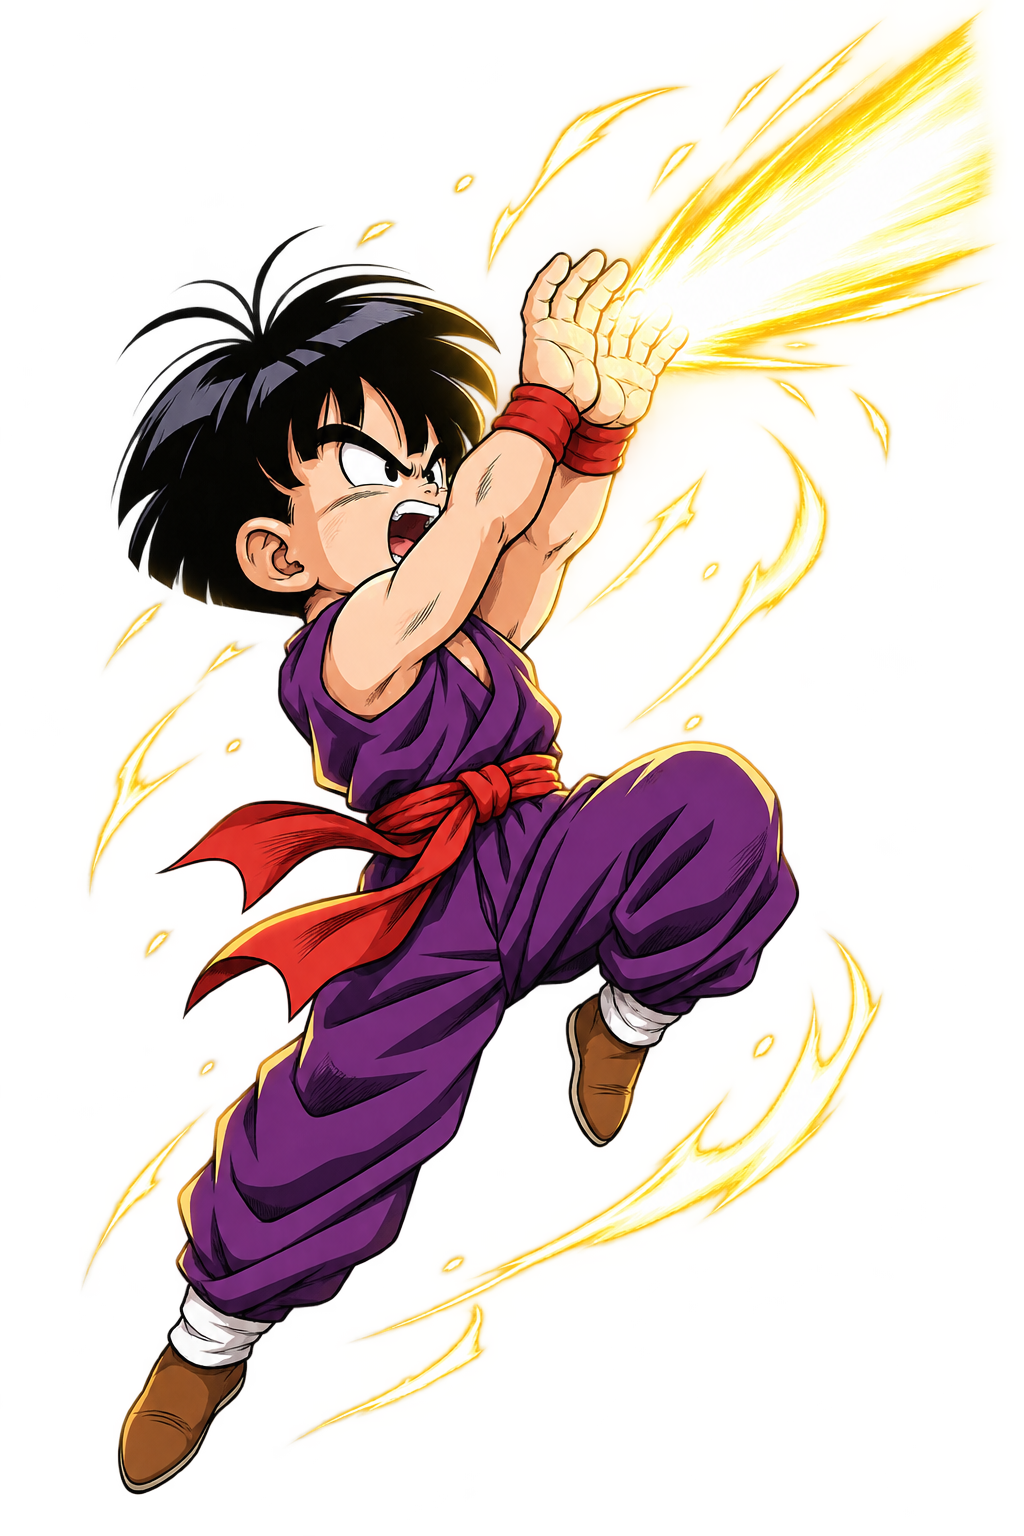
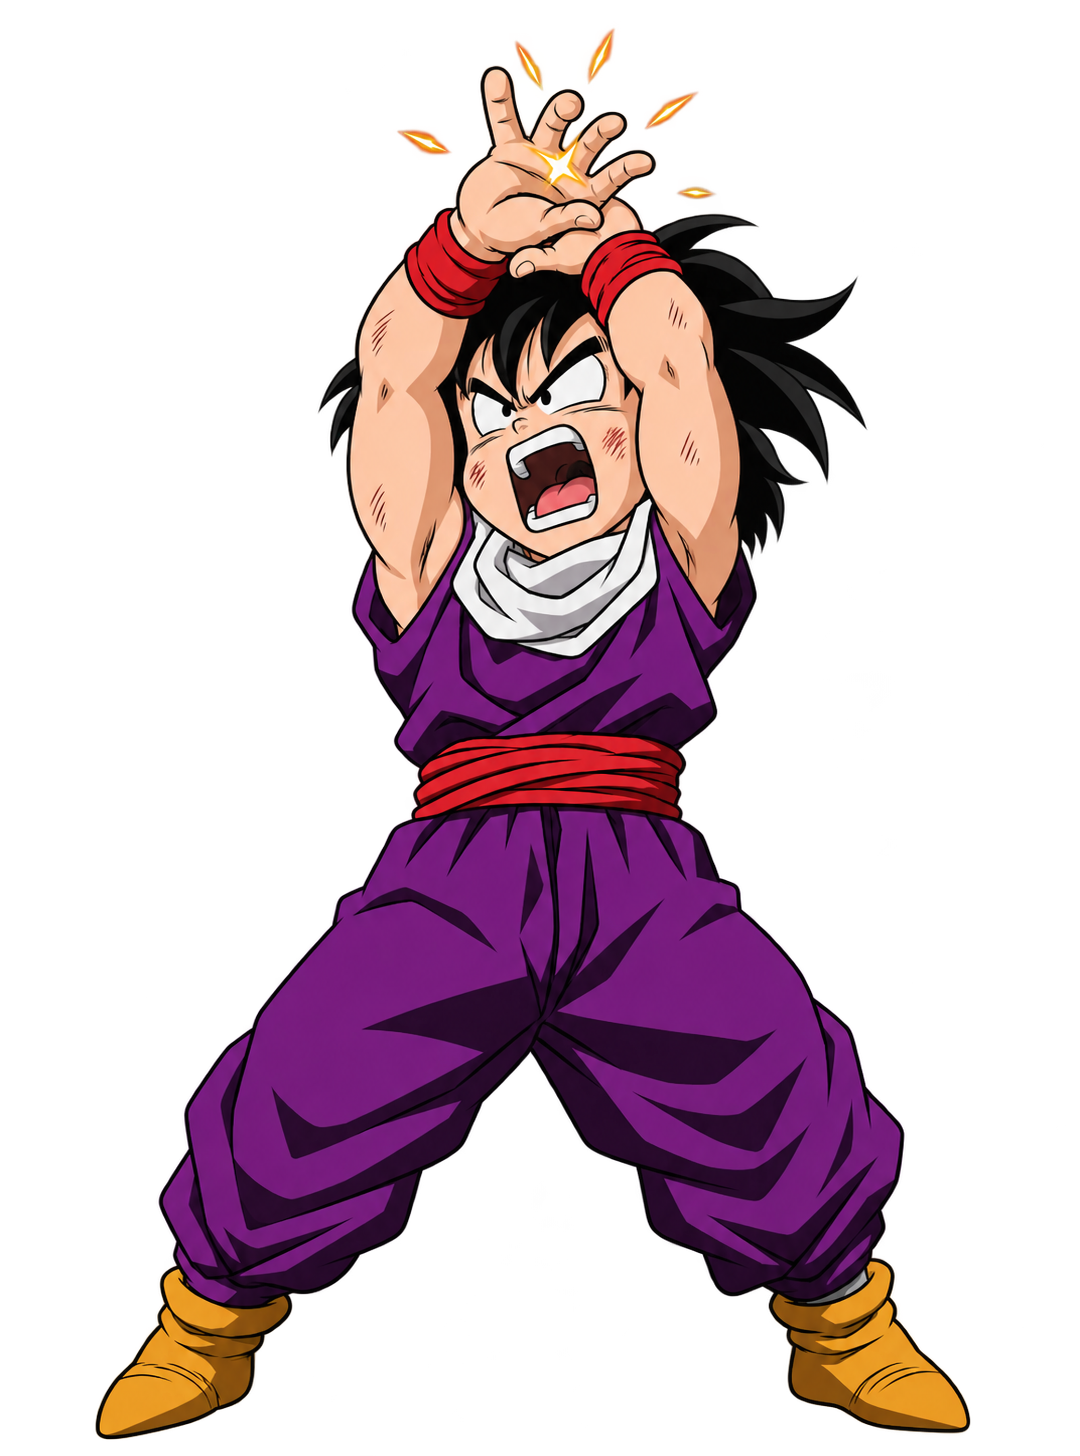
art: integrate approved Krillin, Gohan and Tien portraits

diff --git a/Tools/InspectPortraits.cs b/Tools/InspectPortraits.cs
@@ -9,7 +9,15 @@ class InspectPortraits {
   var files=Directory.GetFiles(args[0],"*-portrait.png");if(files.Length!=9&&args.Length<2)throw new Exception("Expected 9 independent portraits");
   foreach(var path in files)using(var png=new Bitmap(path)){
    int w=png.Width,h=png.Height;
-   bool expectedSize=Path.GetFileName(path)=="piccolo-test-portrait.png"?w==1086&&h==1448:w==1024&&h==1536;
+   string name=Path.GetFileName(path);
+   bool expectedSize;
+   switch(name){
+    case "gohan-test-portrait.png":expectedSize=w==1080&&h==1456;break;
+    case "krillin-test-portrait.png":
+    case "piccolo-test-portrait.png":
+    case "tien-test-portrait.png":expectedSize=w==1086&&h==1448;break;
+    default:expectedSize=w==1024&&h==1536;break;
+   }
    if(!expectedSize)throw new Exception("Unexpected portrait resolution: "+path);
    var locked=png.LockBits(new Rectangle(0,0,w,h),ImageLockMode.ReadOnly,PixelFormat.Format32bppArgb);
    byte[] pixels=new byte[locked.Stride*h];Marshal.Copy(locked.Scan0,pixels,0,pixels.Length);int stride=locked.Stride;png.UnlockBits(locked);

diff --git a/Assets/DragonIdle/Presentation/BattleArtSmoke.cs b/Assets/DragonIdle/Presentation/BattleArtSmoke.cs
@@ -9,7 +9,8 @@ namespace DragonIdle {
     var texture=FighterTexture(i);var regions=Regions(i);
     var portrait=PortraitTexture(i);
     var cardId=Data.Cards[i].Id;
-    var expectedSize=cardId=="piccolo-test"?new Vector2Int(1086,1448):new Vector2Int(1024,1536);
+    var expectedSize=cardId=="gohan-test"?new Vector2Int(1080,1456):
+     (cardId=="piccolo-test"||cardId=="krillin-test"||cardId=="tien-test")?new Vector2Int(1086,1448):new Vector2Int(1024,1536);
     AssertSmoke(portrait!=null&&portrait!=texture&&portrait.width==expectedSize.x&&portrait.height==expectedSize.y,"Portrait missing, resized or using battle atlas: "+cardId);
     AssertSmoke(texture!=null&&texture.width==1536&&texture.height==1024,"Atlas resource missing/rescaled: "+Data.Cards[i].Id);
     AssertSmoke(regions.frames.Length==13&&regions.frames.All(r=>r.w>0&&r.h>0&&r.x>=0&&r.y>=0&&r.x+r.w<=texture.width&&r.y+r.h<=texture.height),"Bad sprite import bounds");

diff --git a/README.md b/README.md
@@ -1,10 +1,10 @@
 # 龙珠爆裂激斗 — Unity 技术 Demo
-当前源码 **v0.12.2 比克立绘更新**。个人离线养成游戏的战斗核心与角色构筑原型。发布内容见[本轮记录](Releases/v0.12.2.md)。
+当前源码 **v0.12.3 克林、悟饭与天津饭立绘更新**。个人离线养成游戏的战斗核心与角色构筑原型。发布内容见[本轮记录](Releases/v0.12.3.md)。
 GitHub：https://github.com/Icein61/dragonball-idle-unity
 
 ## 下载与试玩
 [查看 Windows x64 Demo 发布附件](https://github.com/Icein61/dragonball-idle-unity/releases)。
-下载对应版本的龙珠爆裂激斗-v0.12.2-Windows-x64.zip，完整解压后运行龙珠爆裂激斗.exe。
+下载对应版本的龙珠爆裂激斗-v0.12.3-Windows-x64.zip，完整解压后运行龙珠爆裂激斗.exe。
 需要Windows，不需要Unity、开发账号或联网。请保留Data目录及附带运行库，不要只复制EXE。
 
 启动时用聚气环显示徽章与角色立绘的实际异步加载进度。主页左侧显示修炼进度与通关状态，右侧提供剧情、奖励和设置。底栏进入人物志、编队、养成、装备和召唤。原剧情和试炼也可从“挑战”进入。

diff --git a/docs/STATUS.md b/docs/STATUS.md
@@ -3,6 +3,8 @@
 
 ## 当前阶段
 
+v0.12.3 接入已确认的克林、孙悟饭【幼年期】与天津饭单人立绘。悟饭采用初版表情的发型修订版，天津饭采用五指修正版。三个透明 PNG 以原尺寸替换独立人物立绘，保留资源标识。
+
 v0.12.2 接入用户确认的比克「萌芽的心」立绘。沿用独立立绘资源路径，原 PNG 保留 1086 × 1448 尺寸并按比例显示。比克立绘复盘已写入 [C 版角色美术规范](production/character-style-c.md#比克立绘复盘)。
 
[1 lines of base64/hex data omitted]

diff --git a/Releases/v0.12.3.md b/Releases/v0.12.3.md
@@ -1,0 +1,7 @@
+# v0.12.3 克林、悟饭与天津饭立绘
+
+- 克林「改变战况的好手」压低重心，单手托举暖金色气圆斩。
+- 孙悟饭【幼年期】「危机中爆发的力量」保留初版发力表情与过顶聚气姿势，采用修订后的不对称发束。
+- 天津饭「取胜的气势」斜向前扑伸掌，采用前手五指清楚的修正版。
+
+三张透明立绘以原尺寸接入，沿用游戏现有的等比显示。战斗小人、技能数据和存档格式保持原样。
